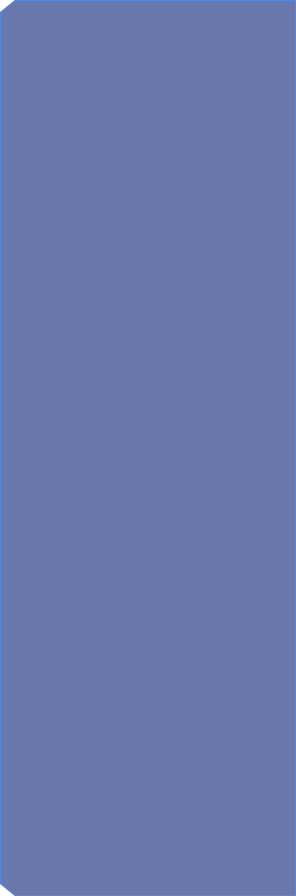
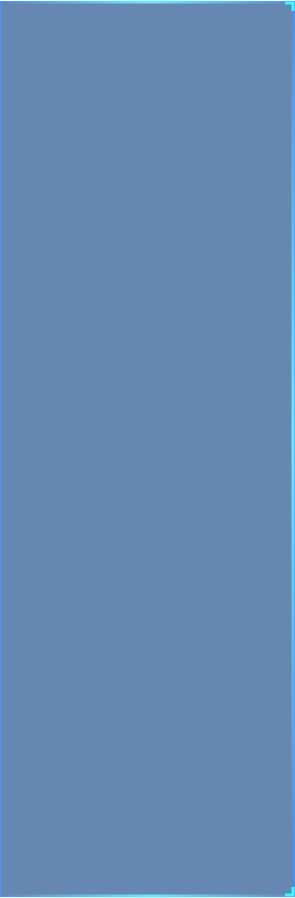
样式修改

Changed region(s): [[0.061, 0.0, 1.0, 1.0], [0.0, 0.0, 0.0305, 1.0]]

diff --git a/src/components/common/css/common.less b/src/components/common/css/common.less
@@ -26,14 +26,16 @@ body {
 
 
 .app_header {
-  height: 120px;
+  height: 84px;
   -webkit-box-sizing: border-box;
   box-sizing: border-box;
   padding: 0 0 10px;
   position: absolute;
   width: 100%;
   z-index: 1000;
-  background-image: linear-gradient(rgba(22,80,195,1), rgba(0,0,0,0));
+  background-image: url("../image/headbg.png");
+  background-size: 100% 100%;
+  // background-image: linear-gradient(rgba(22,80,195,1), rgba(0,0,0,0));
 
 
   .app_icon,
@@ -209,7 +211,16 @@ body {
     font-size: 38px;
     font-weight: bolder;
     letter-spacing: 4px;
-    margin-top: 20px;;
+    background-image: -webkit-gradient(
+      linear,
+      0 0,
+      0 bottom,
+      from(#C9E3FF),
+      to(#BEF6FF)
+    );
+    -webkit-background-clip: text;
+    -webkit-text-fill-color: transparent;
+     margin-top: 5px;;
 
     i {
       vertical-align: top;

diff --git a/src/App.vue b/src/App.vue
@@ -11,7 +11,9 @@
             @click="$goRoute(item.route),selected(index)"
           >{{item.label}}</li>
         </ul>
-      </div> -->
+      </div>-->
+      <p style="position: absolute;right: 15px;top: 7px;">温州设计集团勘测院</p>
+      <p style="position: absolute;right: 15px;top: 33px;">{{time}}</p>
     </header>
     <div class="app_container">
       <router-view ref="router" />
@@ -36,7 +38,8 @@ export default {
       ],
       current: 1,
       time: " ",
-      showHeader: true // 显示头部
+      showHeader: true, // 显示头部
+       time: " ",
     };
   },
   mounted() {

diff --git a/src/components/djdm/Arcgis.vue b/src/components/djdm/Arcgis.vue
@@ -4,6 +4,7 @@
     <transition name="fade">
       <djdmFrame ref="djdm" v-show="doFrame" />
     </transition>
+    <img :src="tlimg" style=" position: absolute;bottom: 10px;right: 348px;" />
   </div>
 </template>
 
@@ -22,7 +23,8 @@ export default {
   name: "DjdmArcgis",
   data() {
     return {
-      doFrame: false
+      doFrame: false,
+      tlimg: require("./img/tl.png")
     };
   },
   components: { djdmFrame },
@@ -123,6 +125,8 @@ export default {
   .arcgisMap {
     width: 100%;
     height: 100%;
+  }
+  img {
   }
 }
 </style>

diff --git a/src/components/djdm/components/topDate.vue b/src/components/djdm/components/topDate.vue
@@ -71,7 +71,7 @@ export default {
   background-color: #1b45a7;
   border: 1px solid #07e2e8;
   margin-left: 20px;
-  padding: 15px 10px;
+  padding: 8px 5px;
   color: #07e2e8;
   i {
     font-style: normal;
